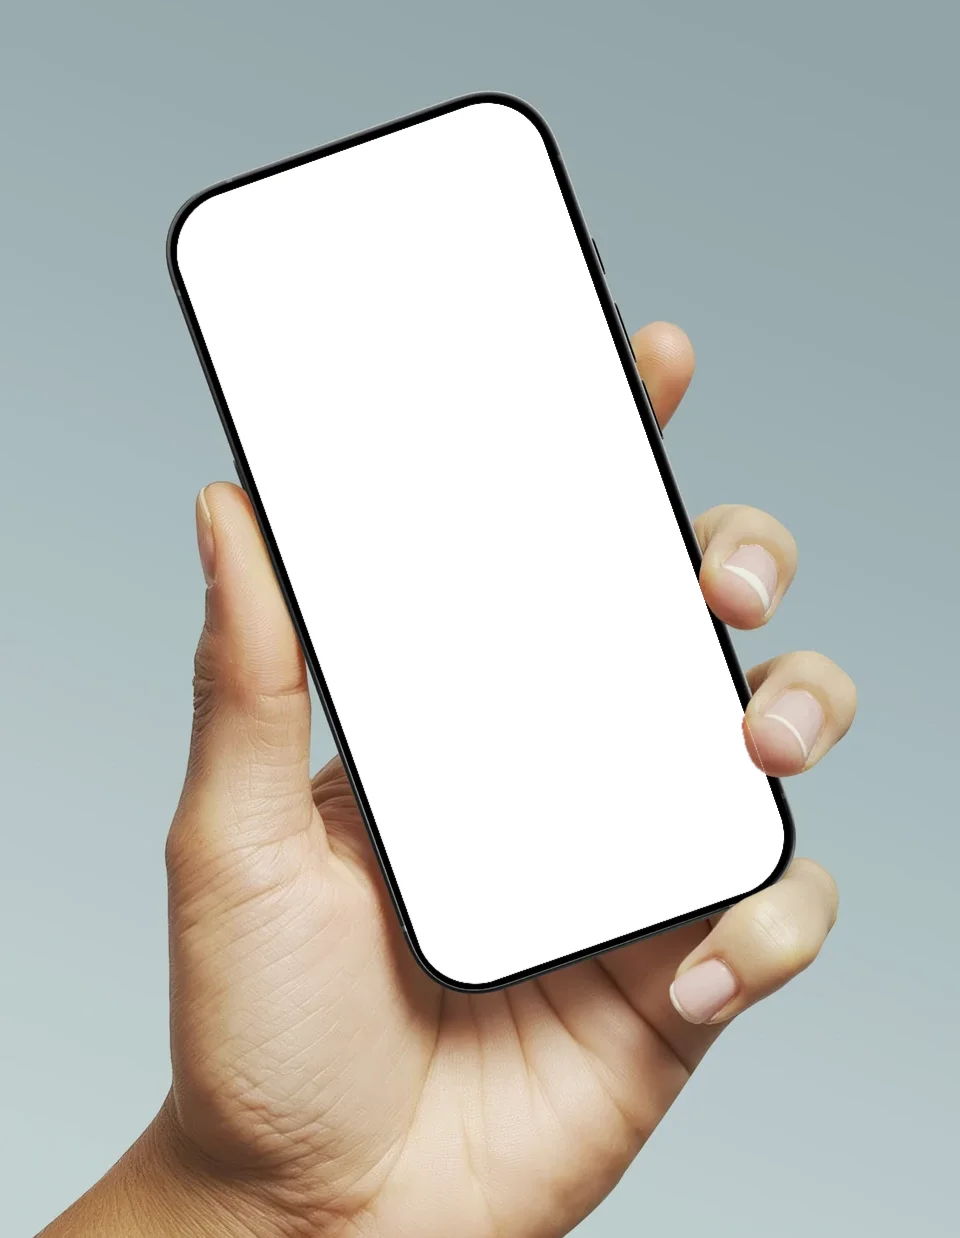
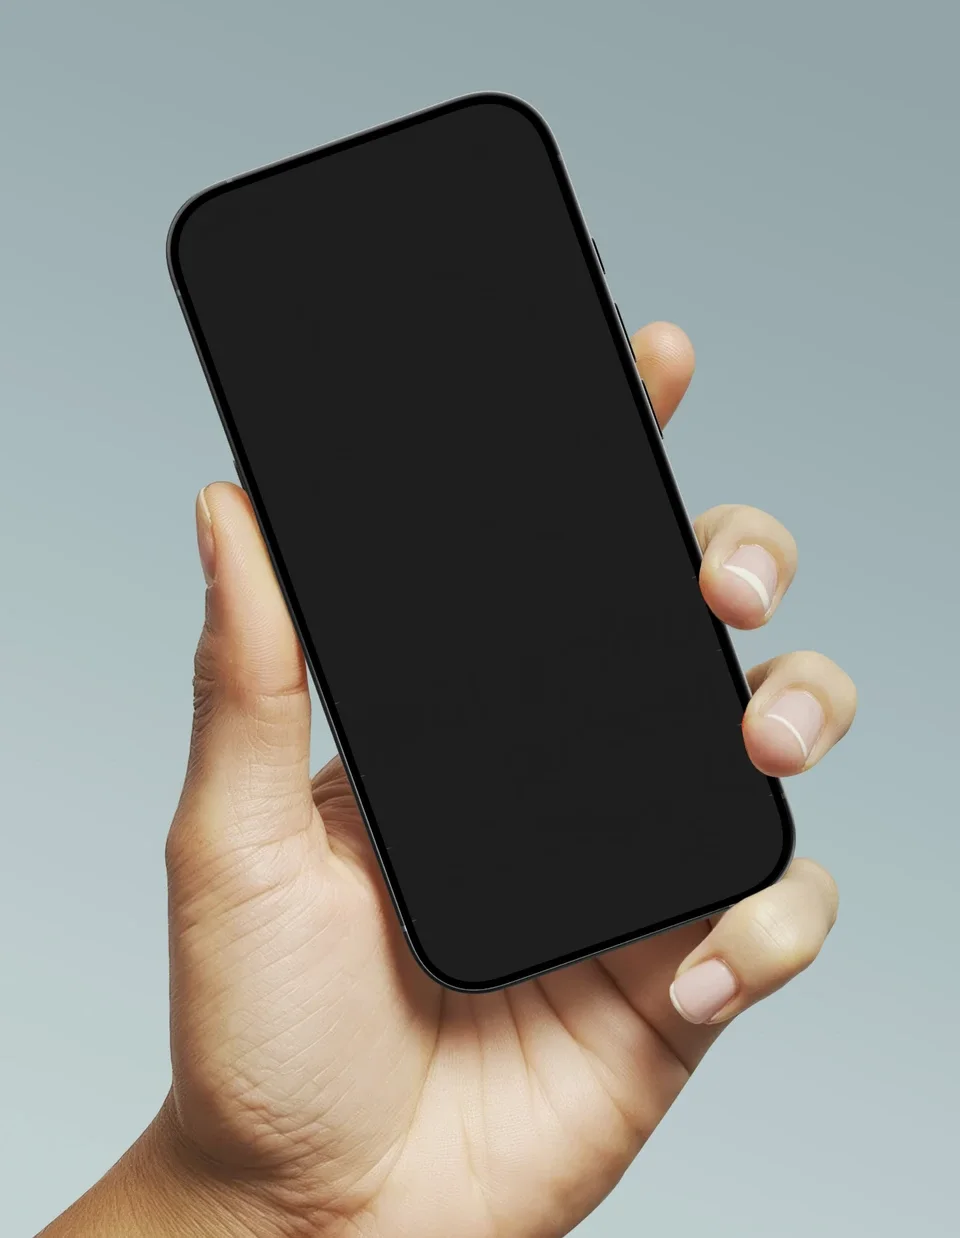
fix: clean mockup edges, 100-square wallet glyphs, Ledger Relay 0.2
- Photo mockups: the app is drawn exactly over the display, with no growth into the border, and
  the stock screen is covered only well inside its edge. The jagged white outline around the
  tilted phone is gone (scripts/landing/mockups.py, public/landing/mockups/).
- Wallet glyph: a 10 x 10 mosaic, 100 squares, all drawn (set bits in the ink, clear bits in a
  light tint), mirrored around the middle; was 5 x 5.
- Ledger Relay 0.2: with NEXT_PUBLIC_LEDGER_RELAY=1 and an organisation relay listed, call set-up
  goes through that relay (PeerJS at /peerjs/peerjs) instead of the public PeerJS cloud; an explicit
  NEXT_PUBLIC_PEERJS_HOST still wins (lib/calls/media.ts). The relay answers PeerJS id requests,
  never lists peers, and ends open WebSockets when it shuts down. New test: two clients exchange an
  offer through a running relay. Relay tests 10/10.

Claude-Session: https://claude.ai/code/session_01XxvenN4H1ayA7t8W7b1enS

Changed region(s): [[0.1875, 0.0614, 0.8125, 0.7981]]

diff --git a/lib/landing/mockups.ts b/lib/landing/mockups.ts
@@ -26,10 +26,10 @@ export const SCREEN_W = 300;
 export const SCREEN_H = 652.2;
 
 export const MOCKUPS: Record<MockupId, Mockup> = {
-  'hand-front': { src: '/landing/mockups/hand-front.webp', mask: '/landing/mockups/hand-front-mask.png', width: 1100, height: 1420, maskBox: [273, 100, 554, 1186], matrix: 'matrix3d(1.81939826,-0.0116821071,0,1.50439062e-06,0.0202548353,1.82406932,0,1.21456548e-05,0,0,1,0,273.190002,104.080002,0,1)' },
-  'hand-front-l': { src: '/landing/mockups/hand-front-l.webp', mask: '/landing/mockups/hand-front-l-mask.png', width: 1100, height: 1420, maskBox: [273, 100, 554, 1186], matrix: 'matrix3d(1.81692342,0.0116768371,0,-1.50371268e-06,-0.00689148043,1.82324657,0,1.21402627e-05,0,0,1,0,281.359985,100.529999,0,1)' },
-  'hand-tilt': { src: '/landing/mockups/hand-tilt.webp', mask: '/landing/mockups/hand-tilt-mask.png', width: 960, height: 1238, maskBox: [175, 102, 609, 883], matrix: 'matrix3d(1.21422911,0.43082264,0,6.92824829e-06,-0.421314521,1.2151321,0,1.15608741e-05,0,0,1,0,435.450012,86.1600037,0,1)' },
-  'hand-tilt-l': { src: '/landing/mockups/hand-tilt-l.webp', mask: '/landing/mockups/hand-tilt-l-mask.png', width: 960, height: 1238, maskBox: [176, 102, 609, 883], matrix: 'matrix3d(1.20507327,-0.429929045,0,-6.91389847e-06,0.431515992,1.21261166,0,1.15368369e-05,0,0,1,0,161.940002,214.960007,0,1)' },
-  'hand-wall': { src: '/landing/mockups/hand-wall.webp', mask: '/landing/mockups/hand-wall-mask.png', width: 580, height: 800, maskBox: [162, 78, 235, 501], matrix: 'matrix3d(0.755478841,-0.00172767136,0,-2.28550792e-05,-0.00178672976,0.766183754,0,1.24694466e-05,0,0,1,0,165.360001,78.4899979,0,1)' },
-  'hand-wall-l': { src: '/landing/mockups/hand-wall-l.webp', mask: '/landing/mockups/hand-wall-l-mask.png', width: 580, height: 800, maskBox: [183, 78, 235, 501], matrix: 'matrix3d(0.774042128,0.00173959923,0,2.30128696e-05,0.00908133781,0.7714735,0,1.25557426e-05,0,0,1,0,185.289993,78.5100021,0,1)' },
+  'hand-front': { src: '/landing/mockups/hand-front.webp', mask: '/landing/mockups/hand-front-mask.png', width: 1100, height: 1420, maskBox: [274, 101, 551, 1183], matrix: 'matrix3d(1.81939826,-0.0116821071,0,1.50439062e-06,0.0202548353,1.82406932,0,1.21456548e-05,0,0,1,0,273.190002,104.080002,0,1)' },
+  'hand-front-l': { src: '/landing/mockups/hand-front-l.webp', mask: '/landing/mockups/hand-front-l-mask.png', width: 1100, height: 1420, maskBox: [275, 101, 551, 1183], matrix: 'matrix3d(1.81692342,0.0116768371,0,-1.50371268e-06,-0.00689148043,1.82324657,0,1.21402627e-05,0,0,1,0,281.359985,100.529999,0,1)' },
+  'hand-tilt': { src: '/landing/mockups/hand-tilt.webp', mask: '/landing/mockups/hand-tilt-mask.png', width: 960, height: 1238, maskBox: [176, 103, 606, 880], matrix: 'matrix3d(1.21422911,0.43082264,0,6.92824829e-06,-0.421314521,1.2151321,0,1.15608741e-05,0,0,1,0,435.450012,86.1600037,0,1)' },
+  'hand-tilt-l': { src: '/landing/mockups/hand-tilt-l.webp', mask: '/landing/mockups/hand-tilt-l-mask.png', width: 960, height: 1238, maskBox: [178, 103, 606, 880], matrix: 'matrix3d(1.20507327,-0.429929045,0,-6.91389847e-06,0.431515992,1.21261166,0,1.15368369e-05,0,0,1,0,161.940002,214.960007,0,1)' },
+  'hand-wall': { src: '/landing/mockups/hand-wall.webp', mask: '/landing/mockups/hand-wall-mask.png', width: 580, height: 800, maskBox: [163, 79, 232, 498], matrix: 'matrix3d(0.755478841,-0.00172767136,0,-2.28550792e-05,-0.00178672976,0.766183754,0,1.24694466e-05,0,0,1,0,165.360001,78.4899979,0,1)' },
+  'hand-wall-l': { src: '/landing/mockups/hand-wall-l.webp', mask: '/landing/mockups/hand-wall-l-mask.png', width: 580, height: 800, maskBox: [185, 79, 232, 498], matrix: 'matrix3d(0.774042128,0.00173959923,0,2.30128696e-05,0.00908133781,0.7714735,0,1.25557426e-05,0,0,1,0,185.289993,78.5100021,0,1)' },
 };

diff --git a/components/chat/WalletGlyph.tsx b/components/chat/WalletGlyph.tsx
@@ -1,22 +1,27 @@
 /**
  * The avatar of a wallet with no photo: a geometric glyph derived from its address, never initials.
  *
- * A 5 × 5 grid mirrored around the middle column (15 free cells, one per address nibble, a cell
- * is drawn when the nibble is 8 or more), in one ink on a white tile with a hairline border. The
- * ink's hue comes from the address, darkened enough for contrast on white. The same address
- * always gives the same glyph; two addresses that differ in their first 15 hex digits differ.
+ * A 10 × 10 grid (100 squares, 21 November 2026; it was 5 × 5) mirrored around its middle: 50
+ * free cells, one per bit of the first 50 bits of the address. Every one of the 100 squares is
+ * drawn: a set bit in the ink, a clear bit in a light tint of the same ink, so the whole mosaic
+ * shows even at 32 px. The ink's hue comes from the address, darkened for contrast on white. The
+ * same address always gives the same glyph; two addresses that differ in their first 50 bits
+ * differ.
  */
+export const GLYPH_SIDE = 10;
+const HALF = GLYPH_SIDE / 2;
+
 export function walletCells(address: string): boolean[] {
-  const hex = (address || '').toLowerCase().replace(/^0x/, '').replace(/[^0-9a-f]/g, '').padEnd(15, '0');
-  const free = Array.from({ length: 15 }, (_, i) => parseInt(hex[i], 16) >= 8);
-  // Never an empty or a full tile: keep the middle cell on and one corner off.
-  if (!free.some(Boolean)) free[7] = true;
+  const hex = (address || '').toLowerCase().replace(/^0x/, '').replace(/[^0-9a-f]/g, '').padEnd(13, '0');
+  const free = Array.from({ length: GLYPH_SIDE * HALF }, (_, i) => ((parseInt(hex[i >> 2], 16) >> (3 - (i & 3))) & 1) === 1);
+  // Never an empty or a full mosaic: keep one middle cell on and one corner off.
+  if (!free.some(Boolean)) free[HALF * HALF - 1] = true;
   if (free.every(Boolean)) free[0] = false;
   const cells: boolean[] = [];
-  for (let row = 0; row < 5; row++) {
-    for (let col = 0; col < 5; col++) {
-      const c = col < 3 ? col : 4 - col; // mirror: columns 3 and 4 copy 1 and 0
-      cells.push(free[row * 3 + c]);
+  for (let row = 0; row < GLYPH_SIDE; row++) {
+    for (let col = 0; col < GLYPH_SIDE; col++) {
+      const c = col < HALF ? col : GLYPH_SIDE - 1 - col; // mirror: the right half copies the left
+      cells.push(free[row * HALF + c]);
     }
   }
   return cells;
@@ -30,12 +35,23 @@ export function walletInk(address: string): string {
 export function WalletGlyph({ address, size = 44 }: { address: string; size?: number }) {
   const cells = walletCells(address);
   const ink = walletInk(address);
-  const pad = 4, cell = (24 - pad * 2) / 5;
+  const pad = 3.2;
+  const cell = (24 - pad * 2) / GLYPH_SIDE;
+  const gap = size >= 36 ? 0.22 : 0.16;
   return (
-    <svg width={size} height={size} viewBox="0 0 24 24" aria-hidden="true" focusable="false" style={{ flexShrink: 0, display: 'block' }}>
+    <svg width={size} height={size} viewBox="0 0 24 24" aria-hidden="true" focusable="false" style={{ flexShrink: 0, display: 'block' }} shapeRendering="geometricPrecision">
       <rect x="0.5" y="0.5" width="23" height="23" rx="7" fill="#FFFFFF" stroke="#E4E7EC" />
-      {cells.map((on, i) => on && (
-        <rect key={i} x={pad + (i % 5) * cell + 0.25} y={pad + Math.floor(i / 5) * cell + 0.25} width={cell - 0.5} height={cell - 0.5} rx="0.8" fill={ink} />
+      {cells.map((on, i) => (
+        <rect
+          key={i}
+          x={pad + (i % GLYPH_SIDE) * cell + gap / 2}
+          y={pad + Math.floor(i / GLYPH_SIDE) * cell + gap / 2}
+          width={cell - gap}
+          height={cell - gap}
+          rx="0.35"
+          fill={ink}
+          fillOpacity={on ? 1 : 0.13}
+        />
       ))}
     </svg>
   );

diff --git a/lib/calls/media.ts b/lib/calls/media.ts
@@ -18,7 +18,7 @@
  */
 
 import { hasStun, shapeIceServers } from './ice';
-import { relayEnabled } from '@/lib/relay/relays';
+import { organisationRelays, relayEnabled } from '@/lib/relay/relays';
 import { iceFromRelays } from '@/lib/relay/client';
 
 export const CALL_AUDIO: MediaTrackConstraints = {
@@ -213,9 +213,21 @@ export function peerServerOptions(env: Record<string, string | undefined> = {
   NEXT_PUBLIC_PEERJS_PORT: process.env.NEXT_PUBLIC_PEERJS_PORT,
   NEXT_PUBLIC_PEERJS_PATH: process.env.NEXT_PUBLIC_PEERJS_PATH,
   NEXT_PUBLIC_PEERJS_KEY: process.env.NEXT_PUBLIC_PEERJS_KEY,
+  NEXT_PUBLIC_LEDGER_RELAY: process.env.NEXT_PUBLIC_LEDGER_RELAY,
+  NEXT_PUBLIC_LEDGER_RELAYS: process.env.NEXT_PUBLIC_LEDGER_RELAYS,
 }): { host?: string; port?: number; path?: string; key?: string; secure?: boolean } {
   const host = (env.NEXT_PUBLIC_PEERJS_HOST || '').trim();
-  if (!host || !/^[a-z0-9.-]+$/i.test(host)) return {};
+  if (!host || !/^[a-z0-9.-]+$/i.test(host)) {
+    // No PeerServer of our own: the organisation's Ledger Relay, when it is switched on, carries the
+    // call set-up instead of the public PeerJS cloud (relay/src/signalling.mjs, PeerJS protocol at
+    // /peerjs/peerjs). Its first listed relay is used; https only (lib/relay/relays.ts).
+    const relay = relayEnabled({ NEXT_PUBLIC_LEDGER_RELAY: env.NEXT_PUBLIC_LEDGER_RELAY })
+      ? organisationRelays({ NEXT_PUBLIC_LEDGER_RELAYS: env.NEXT_PUBLIC_LEDGER_RELAYS })[0]
+      : undefined;
+    if (!relay) return {};
+    const u = new URL(relay.url);
+    return { host: u.hostname, port: u.port ? Number(u.port) : 443, path: '/peerjs/', key: 'peerjs', secure: true };
+  }
   const port = Number(env.NEXT_PUBLIC_PEERJS_PORT || 443);
   const path = (env.NEXT_PUBLIC_PEERJS_PATH || '/').trim() || '/';
   const key = (env.NEXT_PUBLIC_PEERJS_KEY || '').trim();

diff --git a/test/unit/relay/peer-signalling.test.ts b/test/unit/relay/peer-signalling.test.ts
@@ -1,0 +1,24 @@
+/**
+ * Ledger Relay carries call set-up when it is switched on (lib/calls/media.ts, peerServerOptions):
+ * PeerJS connects to the organisation's relay at /peerjs/peerjs instead of the public cloud.
+ */
+import { describe, expect, it } from 'vitest';
+import { peerServerOptions } from '@/lib/calls/media';
+
+describe('call signalling through Ledger Relay', () => {
+  it('uses the first organisation relay when the relay is switched on', () => {
+    expect(peerServerOptions({ NEXT_PUBLIC_LEDGER_RELAY: '1', NEXT_PUBLIC_LEDGER_RELAYS: 'https://relay.example.org, https://b.example.org' }))
+      .toEqual({ host: 'relay.example.org', port: 443, path: '/peerjs/', key: 'peerjs', secure: true });
+  });
+
+  it('keeps the public service when the relay is off or not https', () => {
+    expect(peerServerOptions({ NEXT_PUBLIC_LEDGER_RELAYS: 'https://relay.example.org' })).toEqual({});
+    expect(peerServerOptions({ NEXT_PUBLIC_LEDGER_RELAY: '1', NEXT_PUBLIC_LEDGER_RELAYS: 'http://relay.example.org' })).toEqual({});
+    expect(peerServerOptions({ NEXT_PUBLIC_LEDGER_RELAY: '1' })).toEqual({});
+  });
+
+  it('a PeerServer set explicitly still wins', () => {
+    expect(peerServerOptions({ NEXT_PUBLIC_PEERJS_HOST: 'peer.ledgerchat.org', NEXT_PUBLIC_LEDGER_RELAY: '1', NEXT_PUBLIC_LEDGER_RELAYS: 'https://relay.example.org' }))
+      .toEqual({ host: 'peer.ledgerchat.org', port: 443, path: '/', secure: true });
+  });
+});

diff --git a/test/unit/chat/rail-identity.test.ts b/test/unit/chat/rail-identity.test.ts
@@ -7,9 +7,10 @@ describe('wallet glyph', () => {
     const a = '0x5012aa3c9d0e44f1b6d9';
     expect(walletCells(a)).toEqual(walletCells(a));
     const c = walletCells(a);
-    for (let r = 0; r < 5; r++) {
-      expect(c[r * 5 + 0]).toBe(c[r * 5 + 4]);
-      expect(c[r * 5 + 1]).toBe(c[r * 5 + 3]);
+    // 10 x 10: all 100 squares, the right half mirroring the left
+    expect(c).toHaveLength(100);
+    for (let r = 0; r < 10; r++) {
+      for (let k = 0; k < 5; k++) expect(c[r * 10 + k]).toBe(c[r * 10 + 9 - k]);
     }
     expect(walletCells('0x0000000000000000').some(Boolean)).toBe(true);
     expect(walletCells('0xffffffffffffffff').every(Boolean)).toBe(false);

diff --git a/scripts/landing/mockups.py b/scripts/landing/mockups.py
@@ -160,10 +160,16 @@ def build(fit=False):
             print(name, 'corners', quad, 'residuals px (top, right, bottom, left)', res)
             print('  check the overlay before keeping these: a finger on an edge raises its residual')
         dm = display_mask(im.shape, quad)
-        grown = np.maximum(dm, cv2.GaussianBlur(cv2.dilate(dm, np.ones((2, 2), np.uint8)), (0, 0), 0.5))
-        hm = hand_mask(im, grown, erode=(name == 'hand-tilt')) if hands else np.zeros_like(dm)
-        alpha = np.clip(grown * (1 - hm), 0, 1)
-        clean = im.astype(np.float32) * (1 - alpha[..., None]) + 255 * alpha[..., None]
+        hm = hand_mask(im, dm, erode=(name == 'hand-tilt')) if hands else np.zeros_like(dm)
+        # The app is drawn exactly over the display (no growth into the border: 21 November 2026,
+        # a grown edge painted white showed as a jagged white outline on the dark border).
+        alpha = np.clip(dm * (1 - hm), 0, 1)
+        # The stock screen content is covered with the screen's own colour, well inside the edge,
+        # so the anti-aliased edge keeps the photo's real pixels.
+        inner = cv2.erode((alpha > 0.99).astype(np.uint8), np.ones((7, 7), np.uint8)).astype(bool)
+        fill = np.median(im[inner], axis=0)
+        soft = cv2.GaussianBlur(inner.astype(np.float32), (0, 0), 1.2)[..., None]
+        clean = im.astype(np.float32) * (1 - soft) + fill[None, None, :] * soft
         x0, y0, x1, y1 = crop
         W, H = x1 - x0, y1 - y0
         for mirror in (False, True):

diff --git a/relay/README.md b/relay/README.md
@@ -1,6 +1,6 @@
 # Ledger Relay
 
-`Status: in design. Reference implementation v0.1.0, not deployed for users. Internal review only.`
+`Status: in design. Reference implementation v0.2.0, not deployed for users. Internal review only.`
 
 Ledger Relay is a small, stateless service that anyone can run: a company on its own domain, a community, or Humanity Ledger. It carries only what Ledger Chat cannot end-to-end encrypt away, and never plaintext:
 
@@ -55,15 +55,16 @@ The client support is behind a flag that is off by default (`lib/relay/relays.ts
 | `NEXT_PUBLIC_LEDGER_RELAY=1` | Use relays at all |
 | `NEXT_PUBLIC_LEDGER_RELAYS=https://relay.example.org` | The organisation's relays, comma separated |
 | `NEXT_PUBLIC_LEDGER_RELAY_PIN=1` | Use only those relays, for data residency |
-| `NEXT_PUBLIC_PEERJS_HOST`, `_PATH=/peerjs/`, `_KEY` | Signalling through the relay instead of the public PeerJS cloud |
+| `NEXT_PUBLIC_PEERJS_HOST`, `_PATH`, `_KEY` | A PeerServer of your own; when set it wins over the relay |
 
-With the flag on, the app asks the first healthy relay for TURN credentials and falls back to `/api/calls/ice`, then to STUN only, exactly as before.
+With the flag on, the app asks the first healthy relay for TURN credentials and falls back to `/api/calls/ice`, then to STUN only, exactly as before. Call set-up also goes through the first organisation relay (PeerJS protocol at `/peerjs/peerjs`, key `peerjs`) instead of the public PeerJS cloud, unless `NEXT_PUBLIC_PEERJS_HOST` names another server (`lib/calls/media.ts`, `peerServerOptions`). Add the app's origin to `RELAY_ALLOWED_ORIGINS`, or the relay refuses its WebSocket.
 
 ## API, protocol `ledger-relay/0`
 
 | Method and path | Body | Answer |
 |---|---|---|
 | `GET /health` | | `{ ok: true }` |
+| `GET /peerjs/peerjs/id` | | A random id, for PeerJS clients that ask for one. The list of peers is never given (`/peers` answers 401) |
 | `GET /v0/info` | | Name, operator, protocol, capabilities, limits, signalling path and key, push public key |
 | `GET /v0/turn` | | `{ iceServers: [{ urls, username, credential }], ttl }` |
 | `PUT /v0/blobs/{sha256}` | Ciphertext. Optional `X-Relay-TTL` in seconds | `201 { hash, expiresAt, deleteToken }`; `422` if the body does not match its hash or looks like an unencrypted file; `507` when full |

diff --git a/CHANGELOG.md b/CHANGELOG.md
@@ -6,6 +6,18 @@ and this project adheres to [Semantic Versioning](https://semver.org/spec/v2.0.0
 
 ## [Unreleased]
 
+### Mockup edge, 100-square avatars, Ledger Relay 0.2 (21 November 2026, night)
+
+- Photo mockups: the app is drawn exactly over the display, without growing into the border, and
+  the stock screen is covered only well inside its edge. The jagged white outline around the tilted
+  phone is gone.
+- Contacts without a photo: the wallet glyph is a 10 x 10 mosaic (100 squares, all drawn) instead
+  of 5 x 5 (`components/chat/WalletGlyph.tsx`).
+- Ledger Relay 0.2: when the relay is switched on, call set-up goes through the organisation's
+  relay instead of the public PeerJS cloud (`peerServerOptions`); PeerJS clients can ask the relay
+  for an id; shutting down ends open WebSockets; a test connects two clients through a running
+  relay.
+
 ### Photo mockups, profile photos, deleted chats and 56 diagrams (21 November 2026, evening)
 
 - Landing: the drawn phone frames are gone. The product is shown on three photographs of a hand
